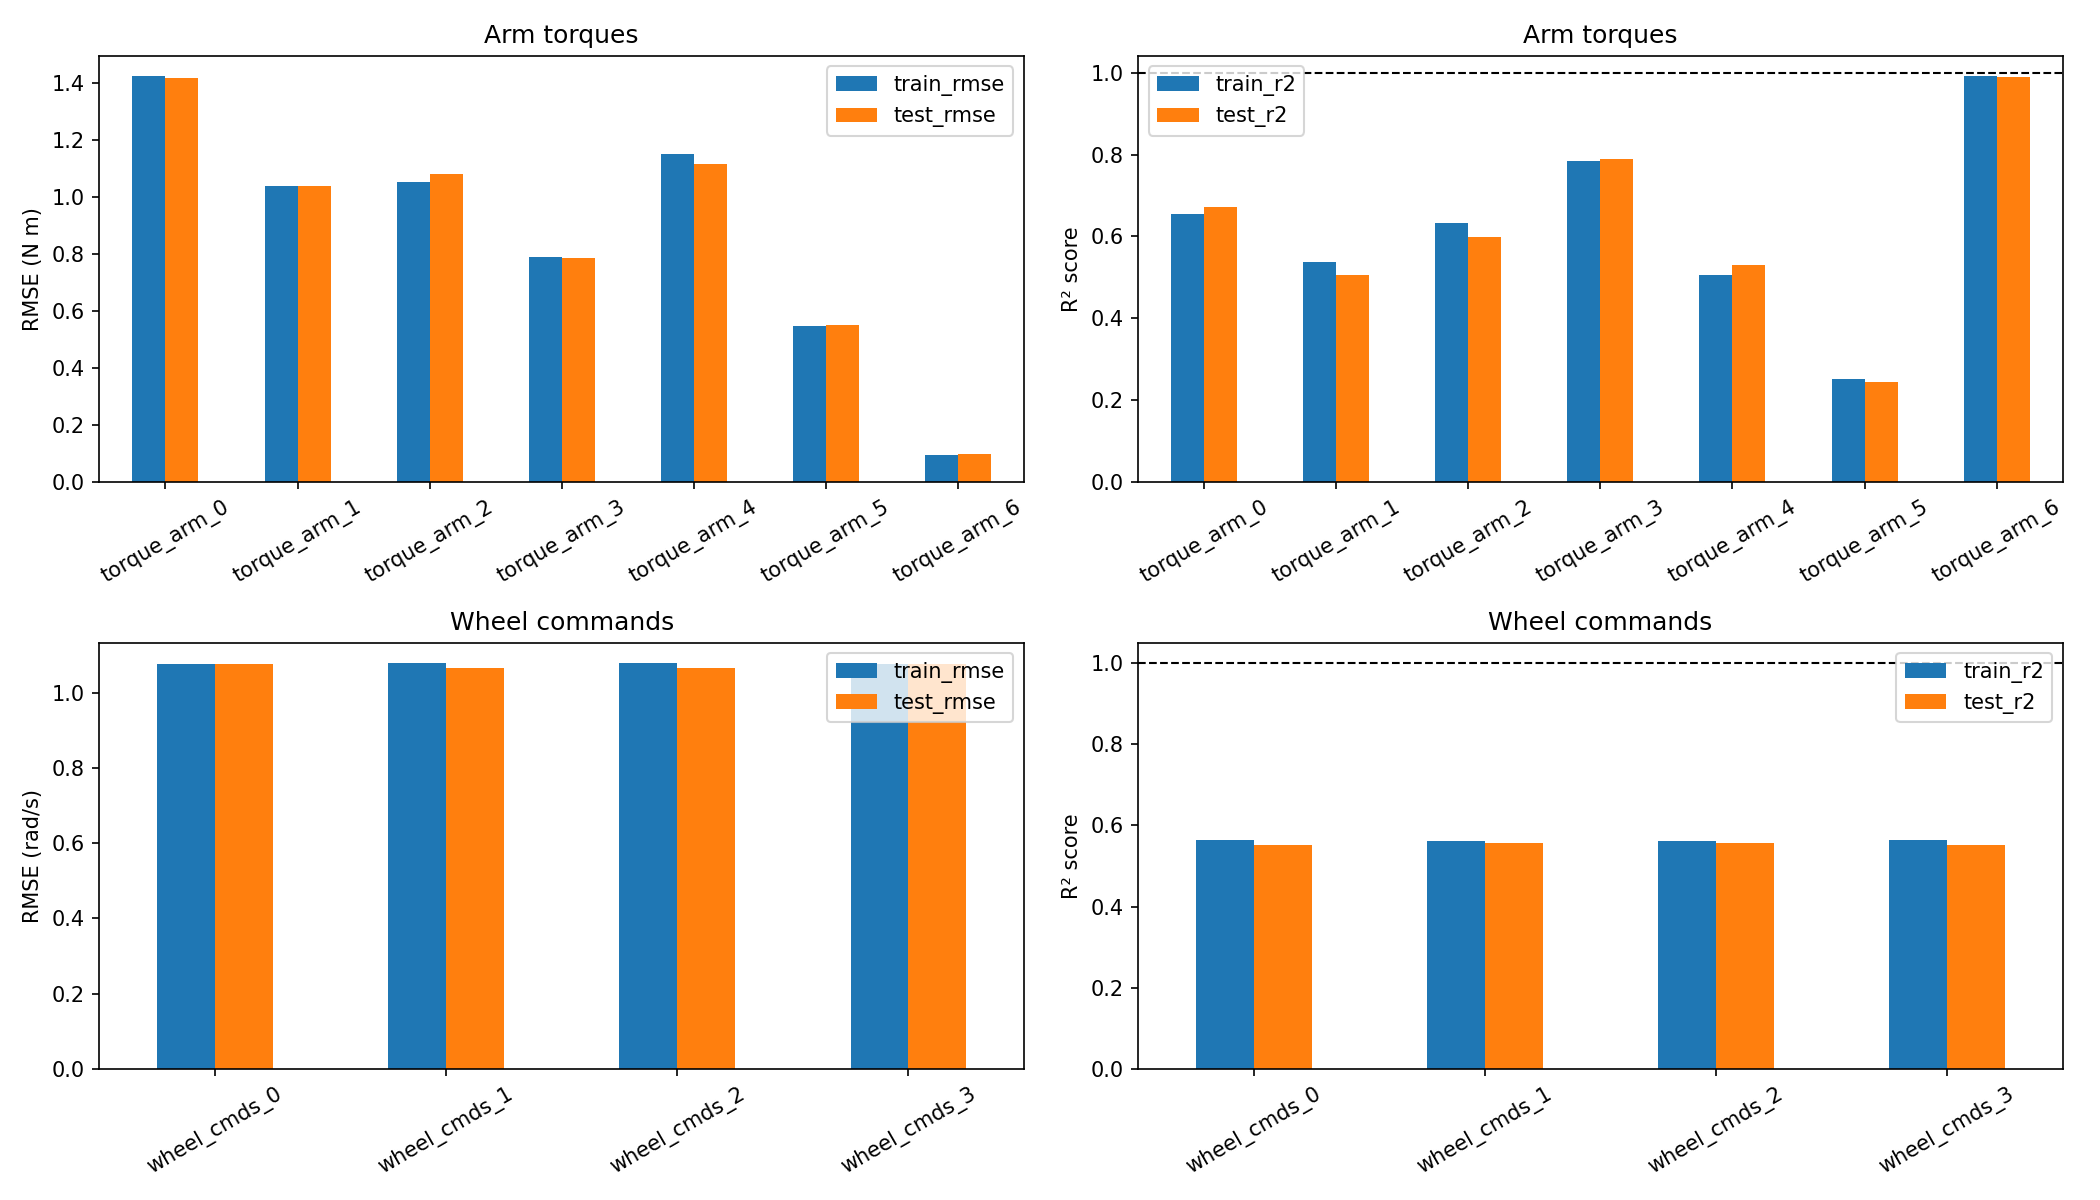
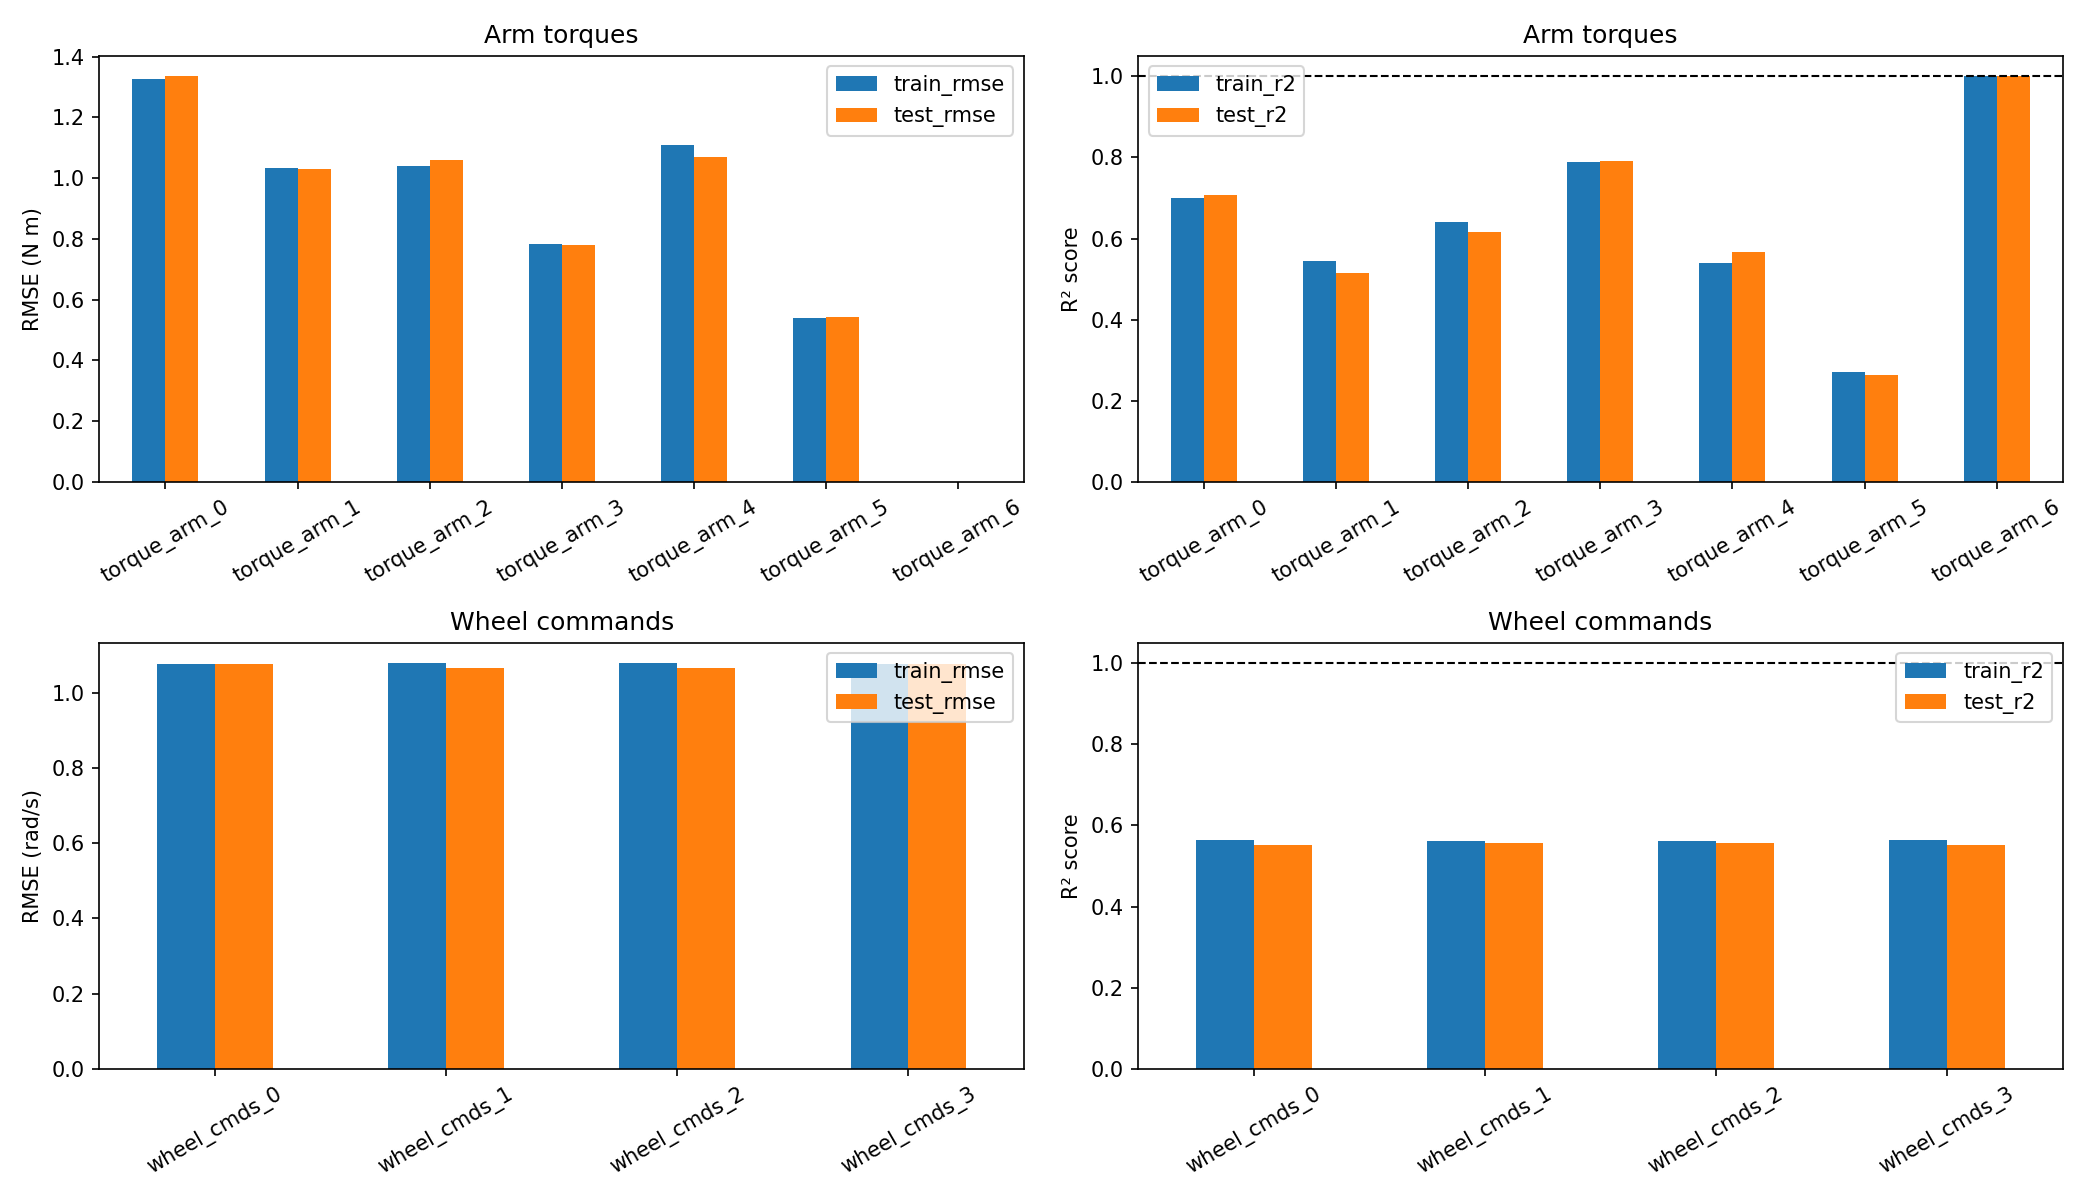
Refine robot arm initialization parameters, remove regularization from linear regression training, and update metrics data and visualizations

diff --git a/robotnik_arm_task/train_linear_regression.py b/robotnik_arm_task/train_linear_regression.py
@@ -14,7 +14,6 @@ MODEL_PATH = Path(__file__).parent.parent / "trained_model" / "linear_regression
 RESULTS_DIR = Path(__file__).parent / "training_results"
 TEST_FRACTION = 0.2
 SEED = 42
-ARM_RIDGE_ALPHA = 0.001
 
 
 def load_data(files):
@@ -84,13 +83,6 @@ def main():
     del features
     y_train = train[OUTPUT_COLUMNS].to_numpy()
     weights = np.linalg.pinv(X_train) @ y_train
-    # Regularize arm coefficients; keep the wheel regression unchanged.
-    penalty = ARM_RIDGE_ALPHA * np.eye(X_train.shape[1])
-    penalty[0, 0] = 0  # Do not penalize the intercept.
-    weights[:, :7] = np.linalg.solve(
-        X_train.T @ X_train / len(train) + penalty,
-        X_train.T @ y_train[:, :7] / len(train),
-    )
 
     X_test = np.column_stack((np.ones(len(test)), (make_features(test) - input_mean) / input_scale))
     y_test = test[OUTPUT_COLUMNS].to_numpy()
@@ -121,7 +113,6 @@ def main():
         input_scale=input_scale,
         input_columns=INPUT_COLUMNS,
         output_columns=OUTPUT_COLUMNS,
-        arm_ridge_alpha=ARM_RIDGE_ALPHA,
         train_episodes=[file.name for file in train_files],
         test_episodes=[file.name for file in test_files],
     )
